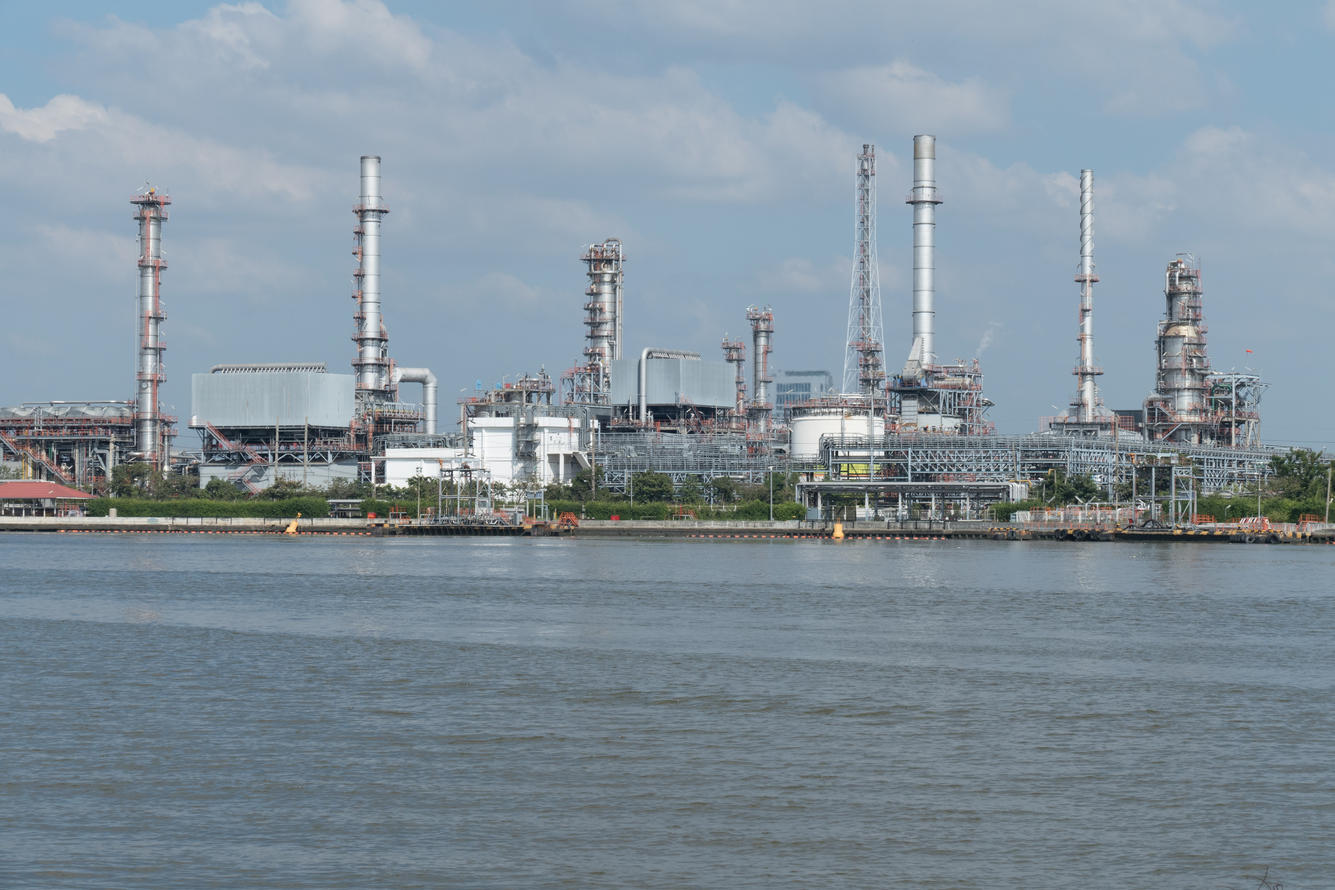
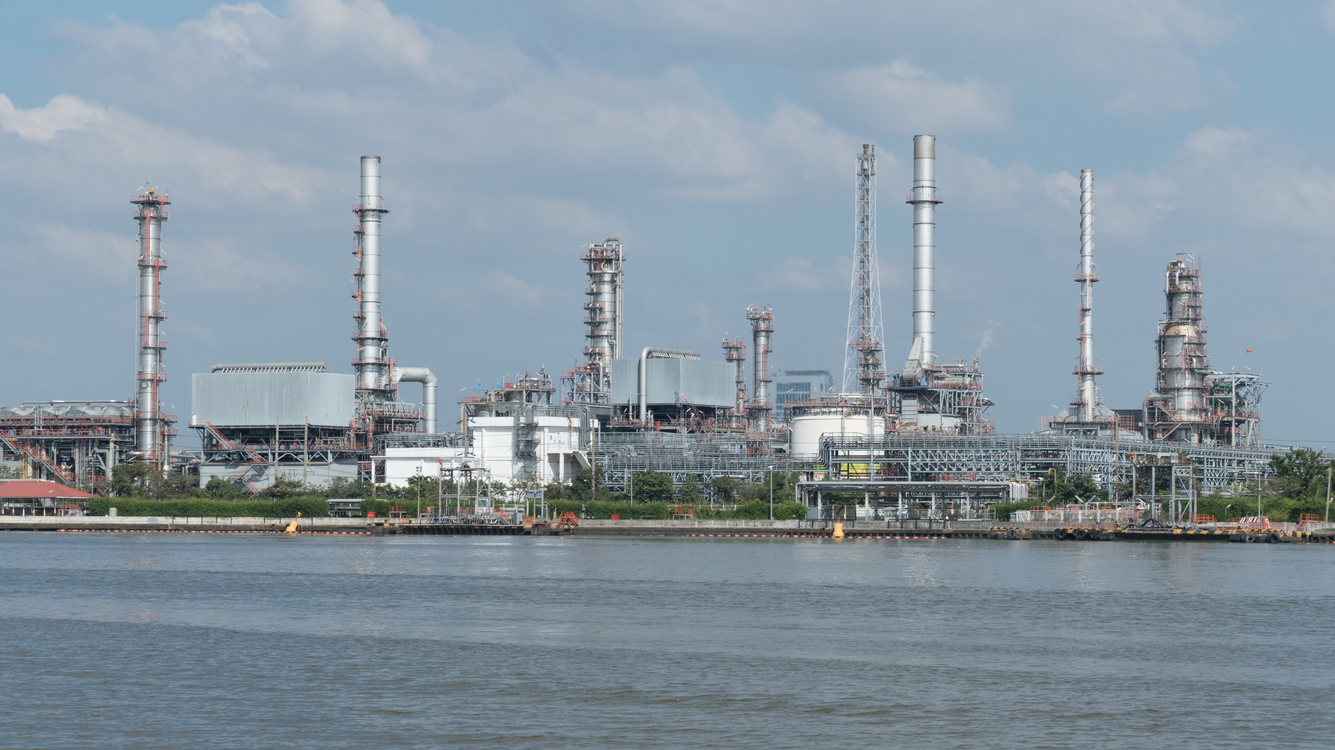
updated image

diff --git a/index.html b/index.html
@@ -4,7 +4,7 @@
     <meta charset="UTF-8" />
     <meta http-equiv="X-UA-Compatible" content="IE=edge" />
     <meta name="viewport" content="width=device-width, initial-scale=1.0" />
-    <title>Document</title>
+    <title>Welcome to AB_INTEL LIMITED</title>
     <link rel="stylesheet" href="public/style.css" />
     <!-- tailwindcss cdn -->
 
@@ -127,7 +127,7 @@
       >
         <div class="carousel-inner relative w-full overflow-hidden h-1/2">
           <div class="carousel-item active relative float-left w-full">
-            <img src="/images/hero-image.jpg" class="block w-full" alt="..." />
+            <img src="/images/refine3.jpg" class="block w-full" alt="..." />
             <div
               class="carousel-caption hidden md:block md:flex-col absolute md:text-left md:top-1/2 md:left-1/2 text-center -mt-16 space-y-3"
             >
@@ -143,7 +143,7 @@
             </div>
           </div>
           <div class="carousel-item relative float-left w-full">
-            <img src="/images/hero-image.jpg" class="block w-full" alt="..." />
+            <img src="/images/refine2.jpg" class="block w-full" alt="..." />
             <div
               class="carousel-caption hidden md:block md:flex-col absolute md:text-left md:top-1/2 md:left-1/2 text-center -mt-16 space-y-3"
             >
@@ -159,7 +159,7 @@
             </div>
           </div>
           <div class="carousel-item relative float-left w-full">
-            <img src="/images/hero-image.jpg" class="block w-full" alt="..." />
+            <img src="/images/refine.jpg" class="block w-full" alt="..." />
             <div
               class="carousel-caption hidden md:block md:flex-col absolute md:text-left md:top-1/2 md:left-1/2 text-center -mt-16 space-y-3"
             >
